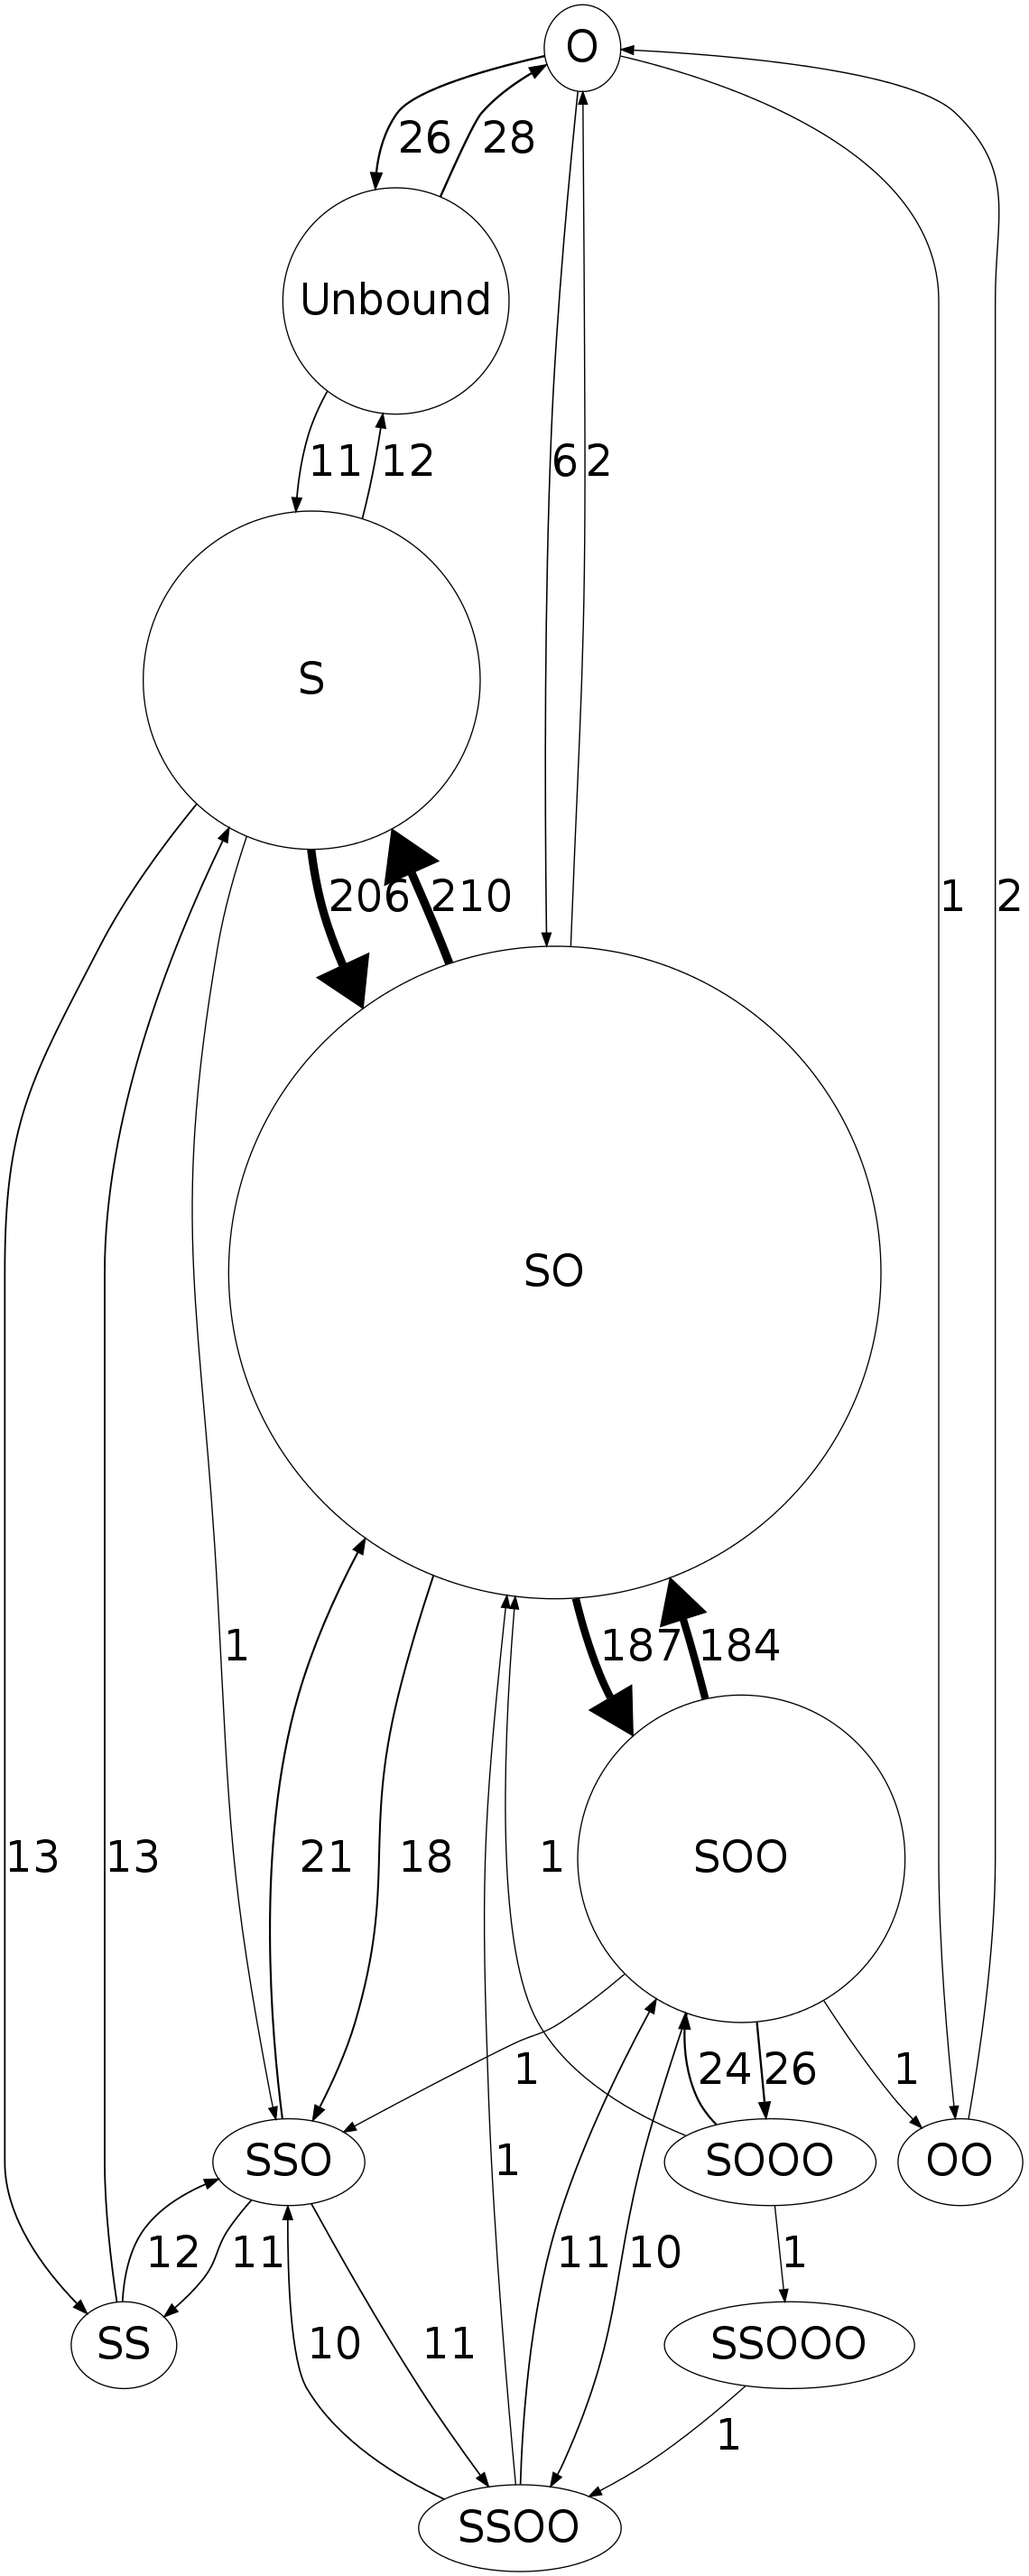
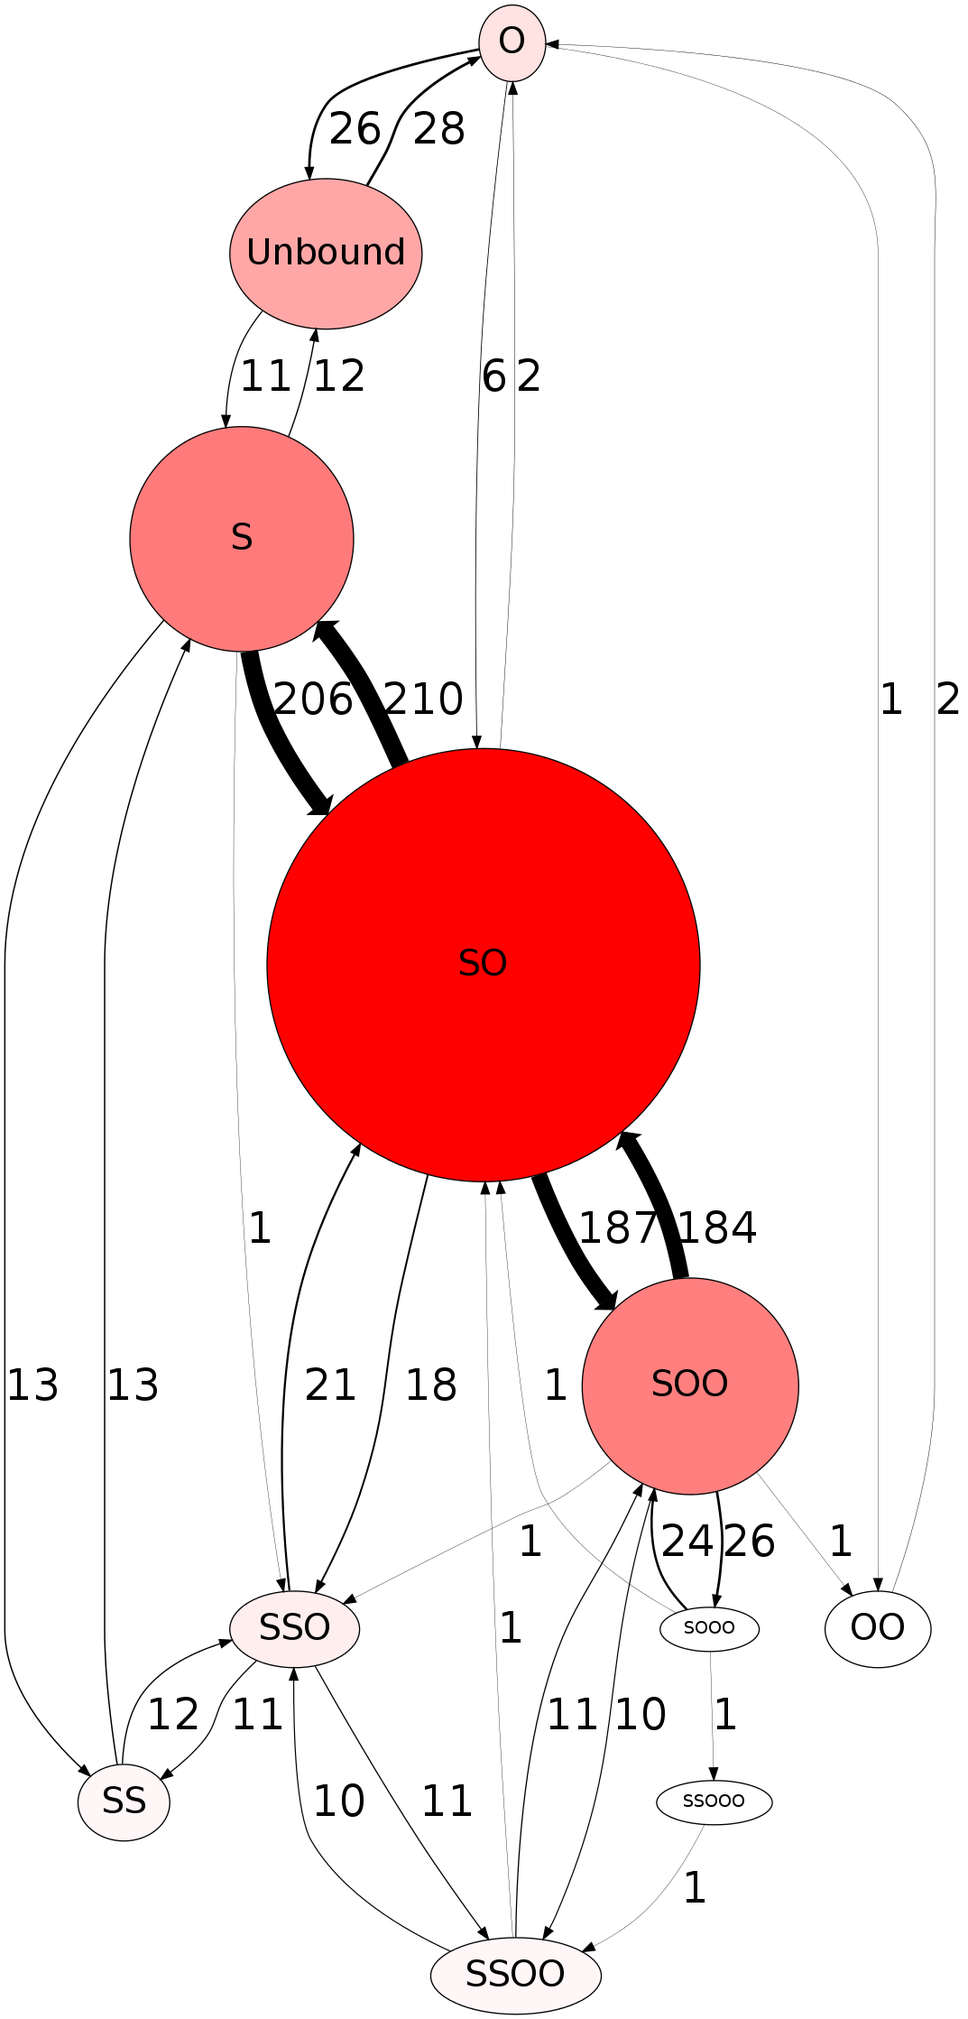
Finessing the coordination transition script to add coloration and prettify.

diff --git a/scripts/CoordinationTransitions.py b/scripts/CoordinationTransitions.py
@@ -78,18 +78,16 @@ def PrintStateChangesDOT(transitions):
 		k = k.split('-')
 		if k[0] == k[1]:
 			continue
-		arrow = 1.0 + 3.0 * v/max_v	# scale the arrowhead to give a sense of higher traffic
-		width = 1.0 + 6.0 * v/max_v
-		#label = 12.0 + v/20.0 - 4.0
-		print "\t" + k[0] + " -> " + k[1] + " [ label = " + str(v) + ", arrowsize = " + str(arrow) + ", penwidth = " + str(width) + " ];" #", fontsize = " + str(label) + " ];"
+		width = 0.2 + 15.0 * v/max_v
+		print "\t%s -> %s [ label=%d, penwidth=%f, fontsize=%d ];" % (k[0], k[1], v,  width, 36)
 
 	return
 
 def PrintNodeSizes(weights):
-	mult = 5.0
+  	weight_max = max(weights.values())
 	for k,v in weights.iteritems():
 		if k.count('O') < 3 and k.count('S') < 3:
-			print "\t%s [ width = %f, height = %f];" % (k, v/mult, v/mult)
+			print "\t%s [ width = %f, height = %f, fontsize=30, style=filled, fillcolor = \"0.0,%f,1.0\" ];" % (k, v*5.0/weight_max, v*5.0/weight_max, v/weight_max)
 
 def ParseTrajectory(trajectory,transitions):
 	prev = -1
@@ -112,5 +110,4 @@ PrintStateChangesDOT(transitions)
 
 weights = GetCoordinationWeights(data)
 PrintNodeSizes(weights)
-print "} [ fontsize = 36 ];"
-
+print " };"
